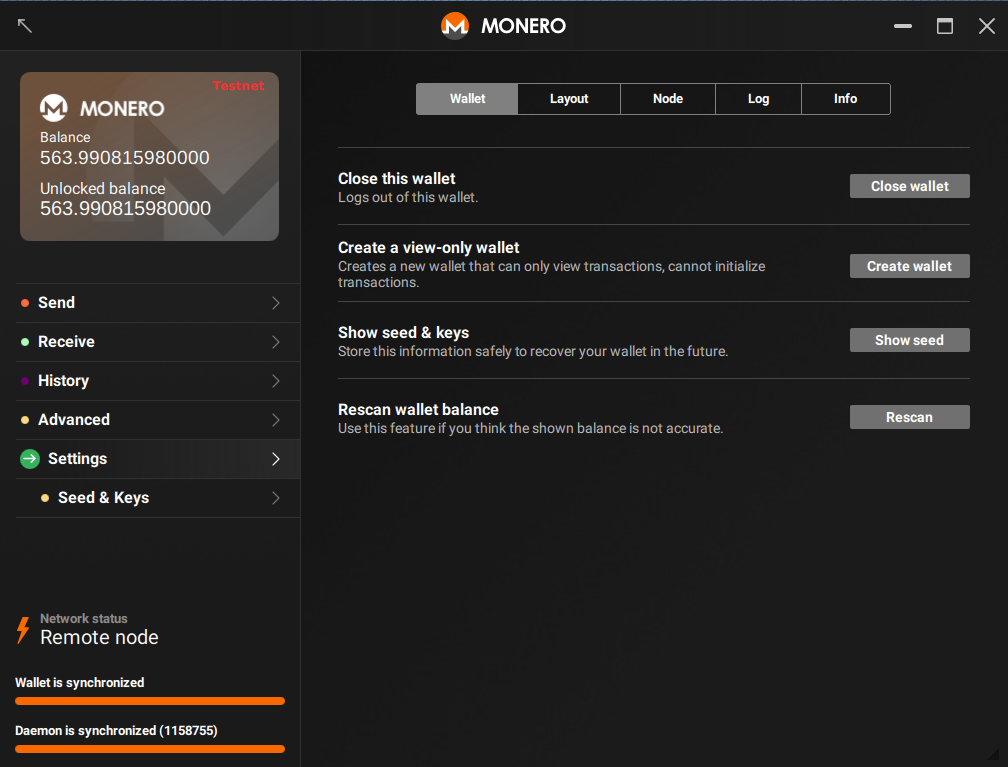
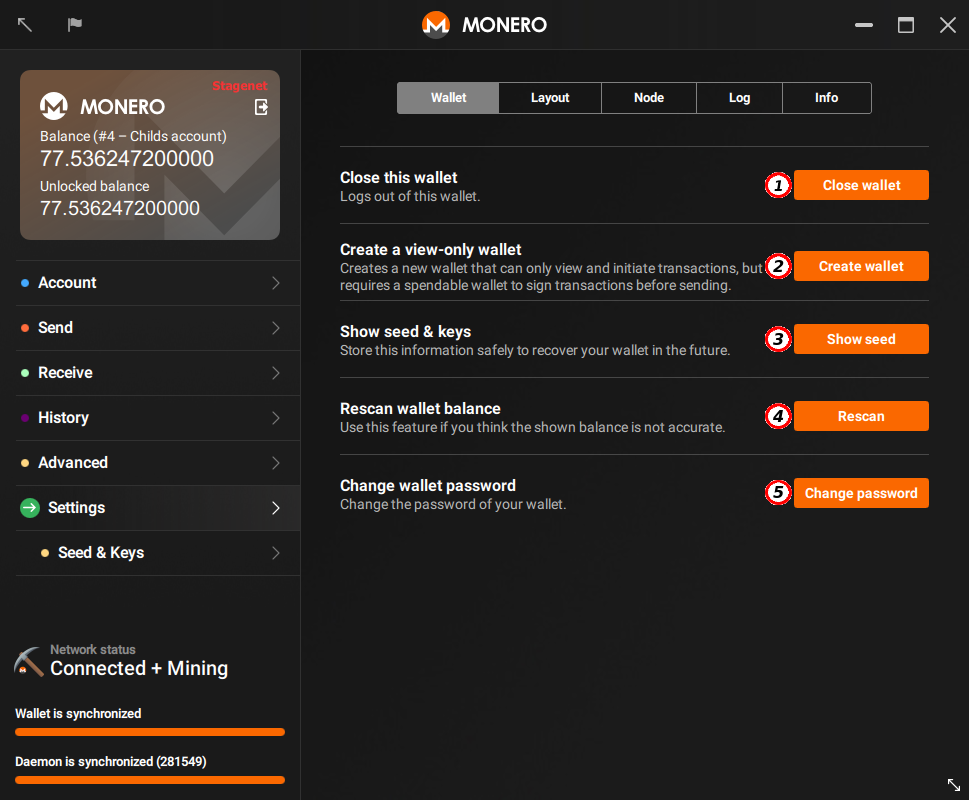
Settings page update + corrections after review + rebased

diff --git a/en/ch08.md b/en/ch08.md
@@ -4,24 +4,41 @@ The `Settings` tab provides tools for customizing configuration options.
 ### Wallet
 ![settings-wallet](media/black_settings-wallet.png)
 
+(1) **Close this wallet:** Click here to safely close the current wallet  
+(2) **Create a view-only wallet:** Click here to generate a view-only (or audit) wallet, which is capable to see existing outgoing transactions and all incoming transactions. See this [user-guide](https://getmonero.org/resources/user-guides/view_only.html) for more information.  
+(3) **Show seed & keys:** This button will redirect you to the [Seed and keys](#seed-and-keys) tab.  
+(4) **Rescan wallet balance:** Click here to rescan the blockchain for all the transaction. *Note: You will lose any information not stored on the blockchain (this includes destination addresses, tx secret keys, tx notes, etc.)*  
+(5) **Change wallet password:** Click here to change your password.
+
+### Layout
+![settings_layout](media/black_settings-layout.png)
+
+The `layout` tab is where you can adjust the settings of the GUI wallet. The most important options are:
+
+(1) **Hide balance:** If you are running your wallet in public, you may want to hide its balance. This can be useful for point of sales systems.  
+(2) **Enable Payment ID:** Long payment IDs are disabled by default. Click here to enable it. This can be useful for transfers to exchanges that require a long payment ID such as Binance (at the time of writing).  
+(3) **Lock wallet:** Set this to automatically lock your wallet after N minutes of inactivity. This ensures no one is able to use your wallet while you are away from keyboard.
+
 ### Local Node
 ![settings_local-node](media/black_settings-node-local_node.png)
 
 (1) **Start/Stop Local Node:** Depending on its current state, either start or stop the local node.  
-(2) **Blockchain location:** Manually enter a non-default path to the blockchain.  
+(2) **Blockchain location:** Manually enter a non-default path to the blockchain, or click `change` to choose a new path.  
 (3) **Startup flags:** When using a local node, this will be where you enter additional command line options.  
-(4) **Bootstrap Address:** Enter the hostname or IP address of the bootstrap remote node. See section [8.1 Bootstrap nodes](#8.1-bootstrap-nodes) for a brief explanation of what is a bootstrap node.  
-(5) **Bootstrap Port:** Enter the port of the bootstrap remote node.
+(4) **Bootstrap Address:** Enter the hostname or IP address of the bootstrap remote node. See section [Bootstrap nodes](#bootstrap-nodes) for a brief explanation of what a bootstrap node is.  
+(5) **Bootstrap Port:** Enter the port of the bootstrap remote node.  
+
 
 ### Remote Node
-Use a remote node, do not download the blockchain. Check the ['About remote nodes' section](#8-about-remote-nodes) of this guide.
+Use a remote node, do not download the blockchain. Check the ['About remote nodes' section](#about-remote-nodes) of this guide.
 
 ![settings_remote-node](media/black_settings-node-remote_node.png)
 
 (1) **Address:** Enter the hostname or IP address of the remote node.  
 (2) **Port:** Enter the port of the remote node.  
 (3) **Daemon Username:**  enter a username in case authentication to the remote node is required.  
-(4) **Daemon Password:**  enter a password in case authentication to the remote node is required.
+(4) **Daemon Password:**  enter a password in case authentication to the remote node is required.  
+(5) **Trusted Daemon:** By default, data requests to remote nodes are obfuscated, and this process requires more resources. If your remote node is under your control (i.e. a dedicated server of your own) you can mark it trusted so that data requests will not be obfuscated anymore (just like a local node).
 
 ### Log
 ![settings-log](media/black_settings-log.png)
@@ -39,7 +56,8 @@ Use a remote node, do not download the blockchain. Check the ['About remote node
 (3) **Wallet path:** Where the wallet is located on your computer.  
 (4) **Wallet creation height:** Change the block height that a wallet rescan will go back to.  
 (5) **Wallet log path:** Where the logs for this wallet will be saved.  
-(6) **Copy to clipboard:** Copy all these informations to the clipboard.  
+(6) **Wallet mode:** Display the wallet mode chosen in the [wizard](#choose-wallet-mode).  
+(7) **Copy to clipboard:** Copy all information to clipboard.  
 
 ## Seed and keys
 ![seed-keys](media/black_seed-keys.png)
@@ -50,6 +68,9 @@ The `Seeds & Keys` tab displays your wallets mnemonic seed as well as your secre
 (2) **Secret view key:** Secret view keys allows the holder to view your wallets incoming transactions, but not outgoing. It is sometimes useful for auditing purposes to give your secret view key to a third party.  
 (3) **Public view key:** The public view key is used for stealth address creation. *Learn more about [view keys](https://getmonero.org/resources/moneropedia/viewkey.html).*  
 (4) **Secret spend key: DO NOT share your secret spend key with anyone. The secret spend key is used to sign transactions and should be regarded with the same security as your mnemonic seed.**  
-(5) **Public spend key:** The public spend key is used by the network to verify the signature of the key image you generate when you make a transaction. This is what prevents double-spends as the network enforces the rule that a key image can be spent only once. *Learn more about [spend keys](https://getmonero.org/resources/moneropedia/spendkey.html).*  
+(5) **Public spend key:** The public spend key is used by the network to verify the signature of the key image you generate when you make a transaction. This is what prevents double-spends as the network enforces the rule that a key image can be spent only once. *Learn more about [spend keys](https://getmonero.org/resources/moneropedia/spendkey.html).*
+
+![seed-keys](media/black_seed-keys_2.png)
+
 (6) **Export Spendable Wallet: DO NOT share your spendable wallet QR code with anyone. This can be used like a mnemonic seed for recovering your wallet.** This creates a qrcode that contains all of your keys.  
 (7) **Export View Only Wallet:** This creates a QR code that contains only the keys for viewing the transactions that this wallet sends or receives, but cannot create transactions.  
